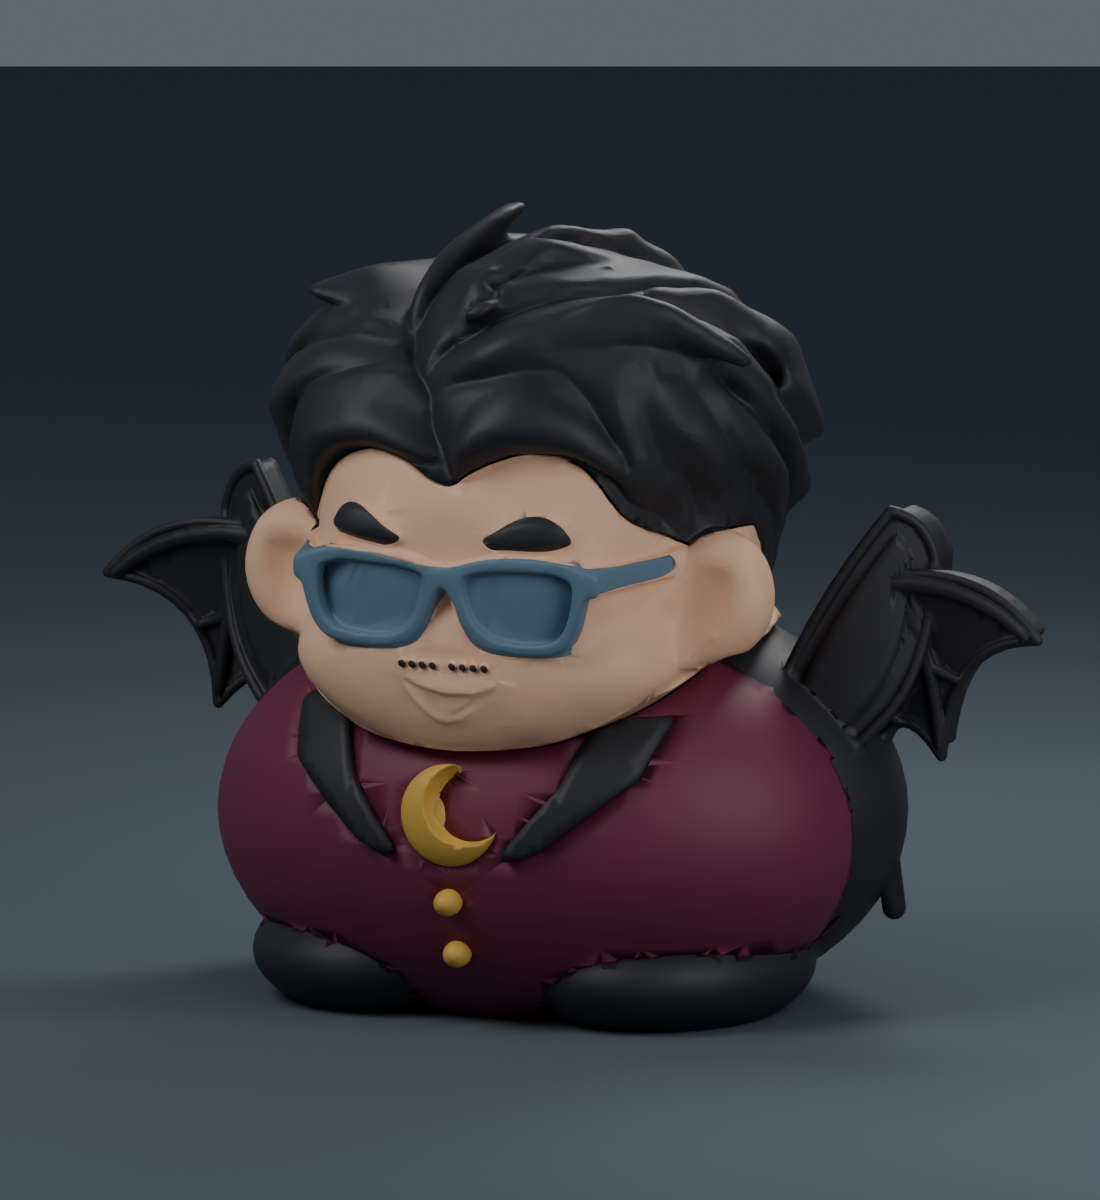
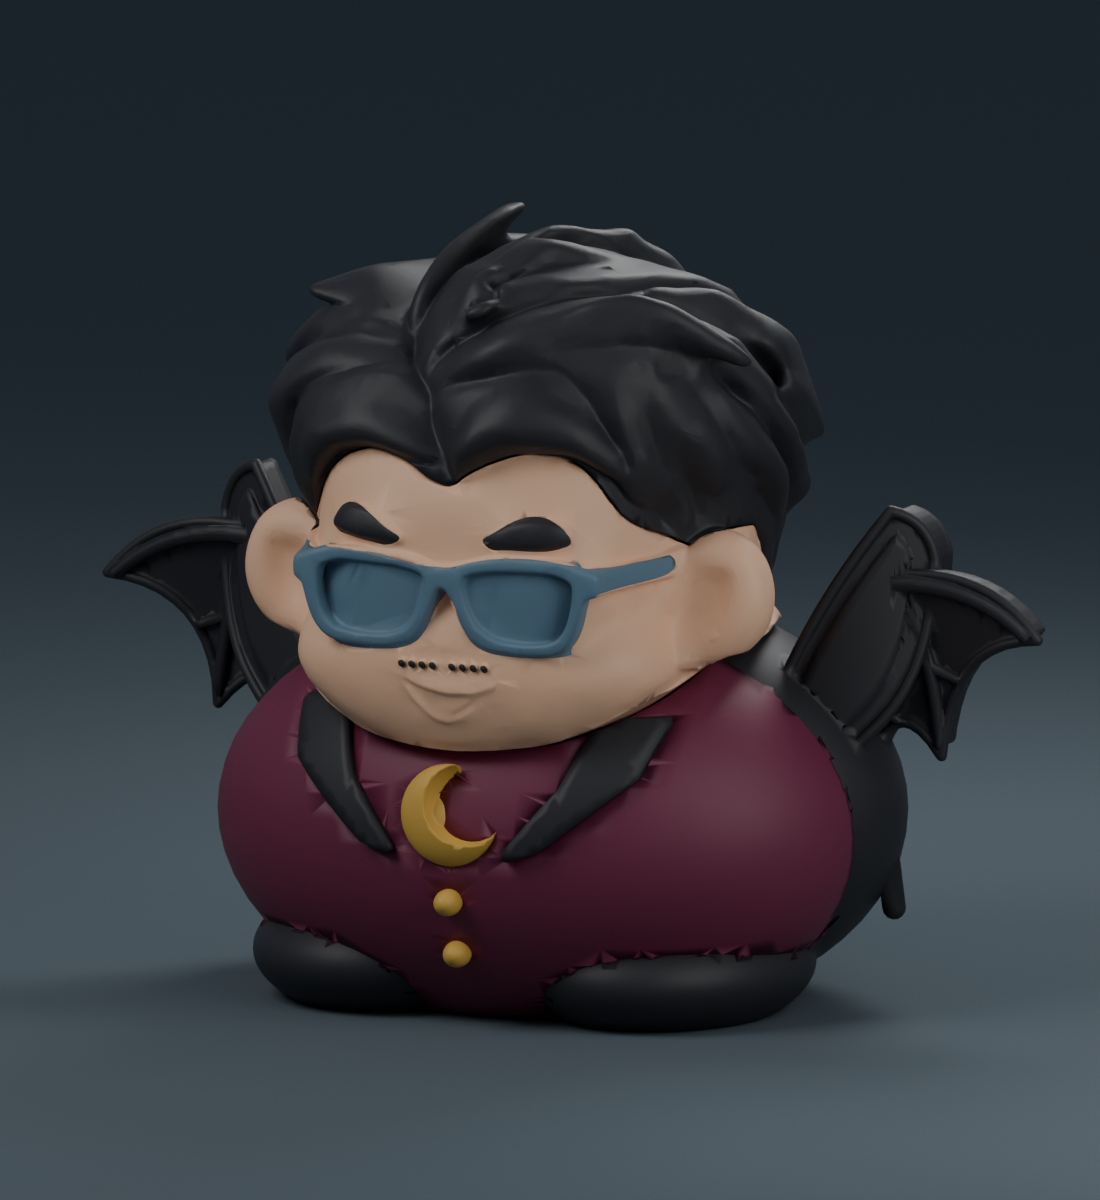
Clean doorway column linework and remove horizon bands from Count previews

Changed region(s): [[0.0, 0.0, 1.0, 0.0617]]

diff --git a/index.html b/index.html
@@ -1,13 +1,13 @@
 <!DOCTYPE html>
 
-<html lang="zh-Hant"><head><meta charset="utf-8"/><meta content="width=device-width, initial-scale=1" name="viewport"/><meta content="小陳晉的數位模型商店。收藏粽子與南瓜公仔，下載 3MF，印出屬於你的桌上小風景。" name="description"/><title>小陳晉製造所｜每一個小陳晉，都在這裡。</title><link href="store.css?v=20261101-refined-door" rel="stylesheet"/><script defer="" src="store.js?v=20261101-images2"></script></head>
+<html lang="zh-Hant"><head><meta charset="utf-8"/><meta content="width=device-width, initial-scale=1" name="viewport"/><meta content="小陳晉的數位模型商店。收藏粽子與南瓜公仔，下載 3MF，印出屬於你的桌上小風景。" name="description"/><title>小陳晉製造所｜每一個小陳晉，都在這裡。</title><link href="store.css?v=20261101-clean-columns" rel="stylesheet"/><script defer="" src="store.js?v=20261101-images2"></script></head>
 <body><div class="announcement">數位模型・下載後，讓創作在你手中成形</div><header><a class="brand" href="index.html"><span aria-hidden="true" class="brand-mark">陳</span><span>小陳晉製造所<small>Little Chen Studio</small></span></a><nav aria-label="主要導覽"><a href="#collection">探索模型</a><a href="#how">下載指南</a><button class="cart-trigger" id="open-cart">購物袋 <span id="cart-count">0</span><svg aria-hidden="true" viewbox="0 0 24 24" width="20"><path d="M5 7h14l1 14H4L5 7Zm3 0V5a4 4 0 0 1 8 0v2" fill="none" stroke="currentColor" stroke-width="1.5"></path></svg></button></nav></header>
-<main><section class="hero"><div class="hero-copy"><h1>每一個小陳晉，<br/><span>都在這裡。</span></h1><p>一點可愛，一點創作的樂趣。<br/>從一份數位模型，開始你的桌上收藏。</p><a class="primary" href="#collection">挑一個小夥伴 <span aria-hidden="true">↗</span></a><div class="hero-note"><span class="line"></span>屬於你的顏色，屬於你的作品。</div></div><div class="halloween-portal" id="halloween-door"><a aria-label="走進月夜古堡拱門，探索小陳晉模型" class="hero-art portal-door" href="#collection"><img alt="月夜伯爵小陳晉站在雕花古銅拱門中，兩旁有暖色燭燈與南瓜" height="1200" src="assets/moon_count_100mm/blackpanels-assembled.png" width="1100"/><div class="art-caption"><strong>月夜伯爵，前來拜訪。</strong><span>全黑蝠翼 · 一體成型 / 分件組裝 <span aria-hidden="true">↗</span></span></div></a><svg aria-hidden="true" class="portal-architecture" fill="none" focusable="false" viewbox="0 0 600 740"><defs><filter id="door-mist" x="-15%" y="-100%" width="130%" height="300%"><feGaussianBlur stdDeviation="5"/></filter><g id="door-lantern"><path d="M0-47v12m-7 0h14M-13-20 0-34 13-20M-15-20h30l-3 41h-24z" fill="#252925" stroke="#b18b59" stroke-width="1.5"></path><path d="M-10-15h20L8 16H-8Z" fill="#ad542b"></path><path d="M-6-12h12L5 13H-5Z" fill="#efb766"></path><path d="M0-10v23M-13 21h26M-8 26H8" stroke="#b18b59" stroke-width="1.5"></path><path d="M0 9C-6 4-2-1 0-5 1 0 6 4 0 9Z" fill="#fff0bf"></path></g><g id="door-bat"><path d="M0 1C-6-9-16-12-24-9L-18 0-25 7C-14 2-8 10-4 10L0 4 4 10C8 10 14 2 25 7L18 0 24-9C16-12 6-9 0 1Z" fill="#0f1c20"></path></g><g id="door-pumpkin"><path d="M0-22q-6-13 4-15" stroke="#7b8a60" stroke-linecap="round" stroke-width="4"></path><path d="M0-22C-26-32-37-10-31 9-27 24-10 27 0 23 10 27 27 24 31 9 37-10 26-32 0-22Z" fill="#be592c" stroke="#df8d48"></path><path d="M-8-20C-17-7-17 11-8 22M8-20C17-7 17 11 8 22" stroke="#833b25" stroke-width="1.5"></path><path d="m-20-3 10-7 3 11Zm40 0-10-7-3 11ZM-16 9l8 3 8-3 8 3 8-3-6 10H-10Z" fill="#f5d18b"></path></g></defs>
+<main><section class="hero"><div class="hero-copy"><h1>每一個小陳晉，<br/><span>都在這裡。</span></h1><p>一點可愛，一點創作的樂趣。<br/>從一份數位模型，開始你的桌上收藏。</p><a class="primary" href="#collection">挑一個小夥伴 <span aria-hidden="true">↗</span></a><div class="hero-note"><span class="line"></span>屬於你的顏色，屬於你的作品。</div></div><div class="halloween-portal" id="halloween-door"><a aria-label="走進月夜古堡拱門，探索小陳晉模型" class="hero-art portal-door" href="#collection"><img alt="月夜伯爵小陳晉站在雕花古銅拱門中，兩旁有暖色燭燈與南瓜" height="1200" src="assets/moon_count_100mm/blackpanels-assembled.png" width="1100"/><div class="art-caption"><strong>月夜伯爵，前來拜訪。</strong><span>全黑蝠翼 · 一體成型 / 分件組裝 <span aria-hidden="true">↗</span></span></div></a><svg aria-hidden="true" class="portal-architecture" fill="none" focusable="false" viewbox="0 0 600 740"><defs><filter height="300%" id="door-mist" width="130%" x="-15%" y="-100%"><fegaussianblur stddeviation="5"></fegaussianblur></filter><g id="door-lantern"><path d="M0-47v12m-7 0h14M-13-20 0-34 13-20M-15-20h30l-3 41h-24z" fill="#252925" stroke="#b18b59" stroke-width="1.5"></path><path d="M-10-15h20L8 16H-8Z" fill="#ad542b"></path><path d="M-6-12h12L5 13H-5Z" fill="#efb766"></path><path d="M0-10v23M-13 21h26M-8 26H8" stroke="#b18b59" stroke-width="1.5"></path><path d="M0 9C-6 4-2-1 0-5 1 0 6 4 0 9Z" fill="#fff0bf"></path></g><g id="door-bat"><path d="M0 1C-6-9-16-12-24-9L-18 0-25 7C-14 2-8 10-4 10L0 4 4 10C8 10 14 2 25 7L18 0 24-9C16-12 6-9 0 1Z" fill="#0f1c20"></path></g><g id="door-pumpkin"><path d="M0-22q-6-13 4-15" stroke="#7b8a60" stroke-linecap="round" stroke-width="4"></path><path d="M0-22C-26-32-37-10-31 9-27 24-10 27 0 23 10 27 27 24 31 9 37-10 26-32 0-22Z" fill="#be592c" stroke="#df8d48"></path><path d="M-8-20C-17-7-17 11-8 22M8-20C17-7 17 11 8 22" stroke="#833b25" stroke-width="1.5"></path><path d="m-20-3 10-7 3 11Zm40 0-10-7-3 11ZM-16 9l8 3 8-3 8 3 8-3-6 10H-10Z" fill="#f5d18b"></path></g></defs>
 <path d="M8 730V300a292 292 0 0 1 584 0v430ZM38 704V300a262 262 0 0 1 524 0v404Z" fill="#423b31" fill-rule="evenodd"></path>
 <path d="M13 726V300a287 287 0 0 1 574 0v426ZM22 718V300a278 278 0 0 1 556 0v418Z" stroke="#8f724e" stroke-width="1.2"></path>
 <path d="M32 711V300a268 268 0 0 1 536 0v411Z" stroke="#c2a16a" stroke-width="2"></path>
 <path d="M39 704V300a261 261 0 0 1 522 0v404" stroke="#191f20" stroke-width="5"></path>
-<path d="M24.25 251.38 15.39 249.82" opacity=".65" stroke="#c2a16a" stroke-width="1"></path><path d="M36.89 204.23 28.43 201.16" opacity=".65" stroke="#c2a16a" stroke-width="1"></path><path d="M57.51 160.00 49.72 155.50" opacity=".65" stroke="#c2a16a" stroke-width="1"></path><path d="M85.51 120.02 78.61 114.23" opacity=".65" stroke="#c2a16a" stroke-width="1"></path><path d="M120.02 85.51 114.23 78.61" opacity=".65" stroke="#c2a16a" stroke-width="1"></path><path d="M160.00 57.51 155.50 49.72" opacity=".65" stroke="#c2a16a" stroke-width="1"></path><path d="M204.23 36.89 201.16 28.43" opacity=".65" stroke="#c2a16a" stroke-width="1"></path><path d="M251.38 24.25 249.82 15.39" opacity=".65" stroke="#c2a16a" stroke-width="1"></path><path d="M300.00 20.00 300.00 11.00" opacity=".65" stroke="#c2a16a" stroke-width="1"></path><path d="M348.62 24.25 350.18 15.39" opacity=".65" stroke="#c2a16a" stroke-width="1"></path><path d="M395.77 36.89 398.84 28.43" opacity=".65" stroke="#c2a16a" stroke-width="1"></path><path d="M440.00 57.51 444.50 49.72" opacity=".65" stroke="#c2a16a" stroke-width="1"></path><path d="M479.98 85.51 485.77 78.61" opacity=".65" stroke="#c2a16a" stroke-width="1"></path><path d="M514.49 120.02 521.39 114.23" opacity=".65" stroke="#c2a16a" stroke-width="1"></path><path d="M542.49 160.00 550.28 155.50" opacity=".65" stroke="#c2a16a" stroke-width="1"></path><path d="M563.11 204.23 571.57 201.16" opacity=".65" stroke="#c2a16a" stroke-width="1"></path><path d="M575.75 251.38 584.61 249.82" opacity=".65" stroke="#c2a16a" stroke-width="1"></path><g stroke="#b59562" transform="translate(24 0)"><path d="M-10 316h20M-10 325h20M-6 337v318M6 337v318M-10 667h20M-10 676h20" stroke-width="1"></path><path d="M0 365c-15 16-15 34 0 46 15-12 15-30 0-46Zm0 86c-15 16-15 34 0 46 15-12 15-30 0-46Zm0 86c-15 16-15 34 0 46 15-12 15-30 0-46Z" stroke-width=".9"></path><path d="m0 418 4 7-4 7-4-7Zm0 86 4 7-4 7-4-7Zm0 86 4 7-4 7-4-7Z" fill="#b59562" stroke="none"></path></g><g stroke="#b59562" transform="translate(576 0)"><path d="M-10 316h20M-10 325h20M-6 337v318M6 337v318M-10 667h20M-10 676h20" stroke-width="1"></path><path d="M0 365c-15 16-15 34 0 46 15-12 15-30 0-46Zm0 86c-15 16-15 34 0 46 15-12 15-30 0-46Zm0 86c-15 16-15 34 0 46 15-12 15-30 0-46Z" stroke-width=".9"></path><path d="m0 418 4 7-4 7-4-7Zm0 86 4 7-4 7-4-7Zm0 86 4 7-4 7-4-7Z" fill="#b59562" stroke="none"></path></g><g stroke="#ba9864"><path d="M257 32q20-22 43-22t43 22M257 32q22 6 43 2t43-2M273 24l-7 15m61-15 7 15" stroke-width="1.5"></path><circle cx="300" cy="27" fill="#30312a" r="18" stroke-width="1.5"></circle><path d="M305 14a12 12 0 1 0 5 22 11 11 0 0 1-5-22Z" fill="#d8ba7e" stroke="none"></path><path d="m300 2 4 7-4 7-4-7Z" fill="#d8ba7e" stroke="none"></path></g>
+<path d="M24.25 251.38 15.39 249.82" opacity=".65" stroke="#c2a16a" stroke-width="1"></path><path d="M36.89 204.23 28.43 201.16" opacity=".65" stroke="#c2a16a" stroke-width="1"></path><path d="M57.51 160.00 49.72 155.50" opacity=".65" stroke="#c2a16a" stroke-width="1"></path><path d="M85.51 120.02 78.61 114.23" opacity=".65" stroke="#c2a16a" stroke-width="1"></path><path d="M120.02 85.51 114.23 78.61" opacity=".65" stroke="#c2a16a" stroke-width="1"></path><path d="M160.00 57.51 155.50 49.72" opacity=".65" stroke="#c2a16a" stroke-width="1"></path><path d="M204.23 36.89 201.16 28.43" opacity=".65" stroke="#c2a16a" stroke-width="1"></path><path d="M251.38 24.25 249.82 15.39" opacity=".65" stroke="#c2a16a" stroke-width="1"></path><path d="M300.00 20.00 300.00 11.00" opacity=".65" stroke="#c2a16a" stroke-width="1"></path><path d="M348.62 24.25 350.18 15.39" opacity=".65" stroke="#c2a16a" stroke-width="1"></path><path d="M395.77 36.89 398.84 28.43" opacity=".65" stroke="#c2a16a" stroke-width="1"></path><path d="M440.00 57.51 444.50 49.72" opacity=".65" stroke="#c2a16a" stroke-width="1"></path><path d="M479.98 85.51 485.77 78.61" opacity=".65" stroke="#c2a16a" stroke-width="1"></path><path d="M514.49 120.02 521.39 114.23" opacity=".65" stroke="#c2a16a" stroke-width="1"></path><path d="M542.49 160.00 550.28 155.50" opacity=".65" stroke="#c2a16a" stroke-width="1"></path><path d="M563.11 204.23 571.57 201.16" opacity=".65" stroke="#c2a16a" stroke-width="1"></path><path d="M575.75 251.38 584.61 249.82" opacity=".65" stroke="#c2a16a" stroke-width="1"></path><g stroke="#b59562" stroke-linecap="round" stroke-linejoin="round" transform="translate(24 0)"><rect fill="#423b31" height="337" stroke="none" width="20" x="-10" y="326"></rect><path d="M-10 316h20M-10 325h20M-9 337v318M9 337v318M-10 667h20M-10 676h20" stroke-width=".9"></path><path d="M0 365C-7 376-7 400 0 411C7 400 7 376 0 365Z" stroke-width=".9"></path><path d="M0 451C-7 462-7 486 0 497C7 486 7 462 0 451Z" stroke-width=".9"></path><path d="M0 537C-7 548-7 572 0 583C7 572 7 548 0 537Z" stroke-width=".9"></path><path d="M0 420l3 5-3 5-3-5Z" fill="#b59562" stroke="none"></path><path d="M0 506l3 5-3 5-3-5Z" fill="#b59562" stroke="none"></path><path d="M0 592l3 5-3 5-3-5Z" fill="#b59562" stroke="none"></path></g><g stroke="#b59562" stroke-linecap="round" stroke-linejoin="round" transform="translate(576 0)"><rect fill="#423b31" height="337" stroke="none" width="20" x="-10" y="326"></rect><path d="M-10 316h20M-10 325h20M-9 337v318M9 337v318M-10 667h20M-10 676h20" stroke-width=".9"></path><path d="M0 365C-7 376-7 400 0 411C7 400 7 376 0 365Z" stroke-width=".9"></path><path d="M0 451C-7 462-7 486 0 497C7 486 7 462 0 451Z" stroke-width=".9"></path><path d="M0 537C-7 548-7 572 0 583C7 572 7 548 0 537Z" stroke-width=".9"></path><path d="M0 420l3 5-3 5-3-5Z" fill="#b59562" stroke="none"></path><path d="M0 506l3 5-3 5-3-5Z" fill="#b59562" stroke="none"></path><path d="M0 592l3 5-3 5-3-5Z" fill="#b59562" stroke="none"></path></g><g stroke="#ba9864"><path d="M257 32q20-22 43-22t43 22M257 32q22 6 43 2t43-2M273 24l-7 15m61-15 7 15" stroke-width="1.5"></path><circle cx="300" cy="27" fill="#30312a" r="18" stroke-width="1.5"></circle><path d="M305 14a12 12 0 1 0 5 22 11 11 0 0 1-5-22Z" fill="#d8ba7e" stroke="none"></path><path d="m300 2 4 7-4 7-4-7Z" fill="#d8ba7e" stroke="none"></path></g>
 <path d="M10 710H590V730H10Z" fill="#343631" stroke="#8f724e"></path><path d="M21 717H579M29 723H571" stroke="#b69a69" stroke-width=".8"></path>
 <use href="#door-lantern" transform="translate(60 342)"></use><use href="#door-lantern" transform="translate(540 342)"></use>
 <path d="M365 83a25 25 0 1 0 18 40 23 23 0 0 1-18-40Z" fill="#d4bd8b"></path>
